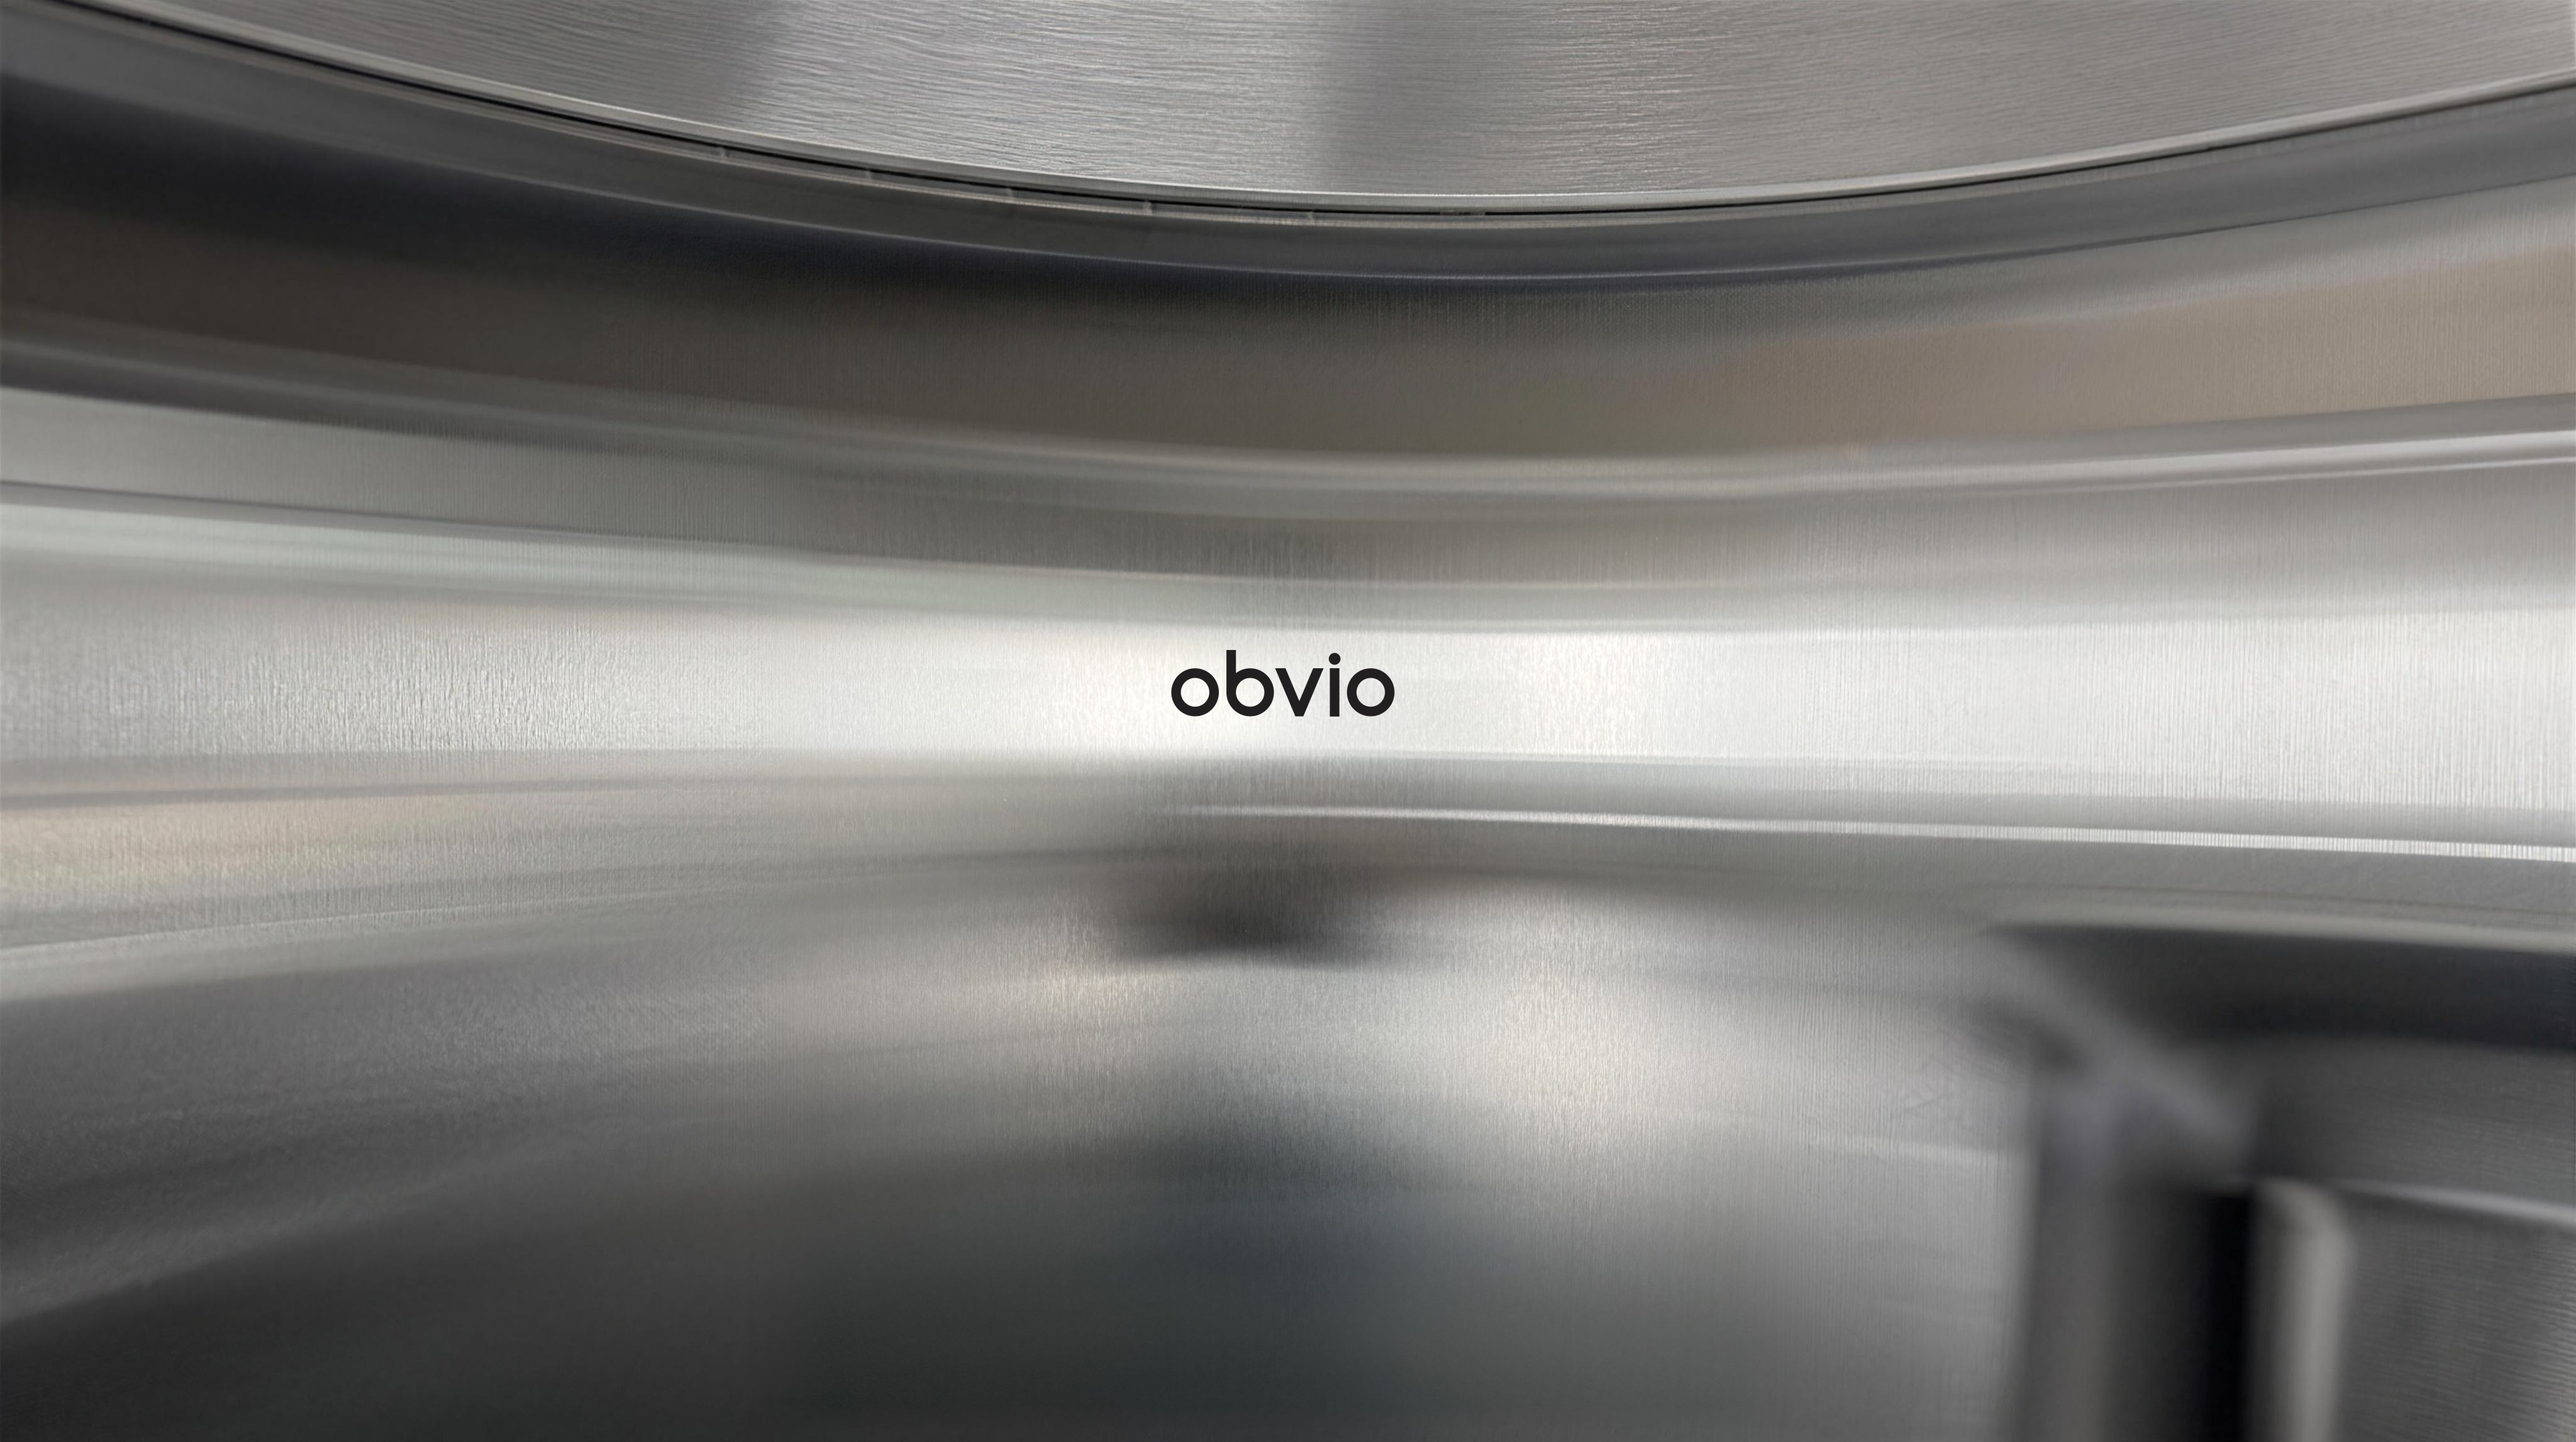
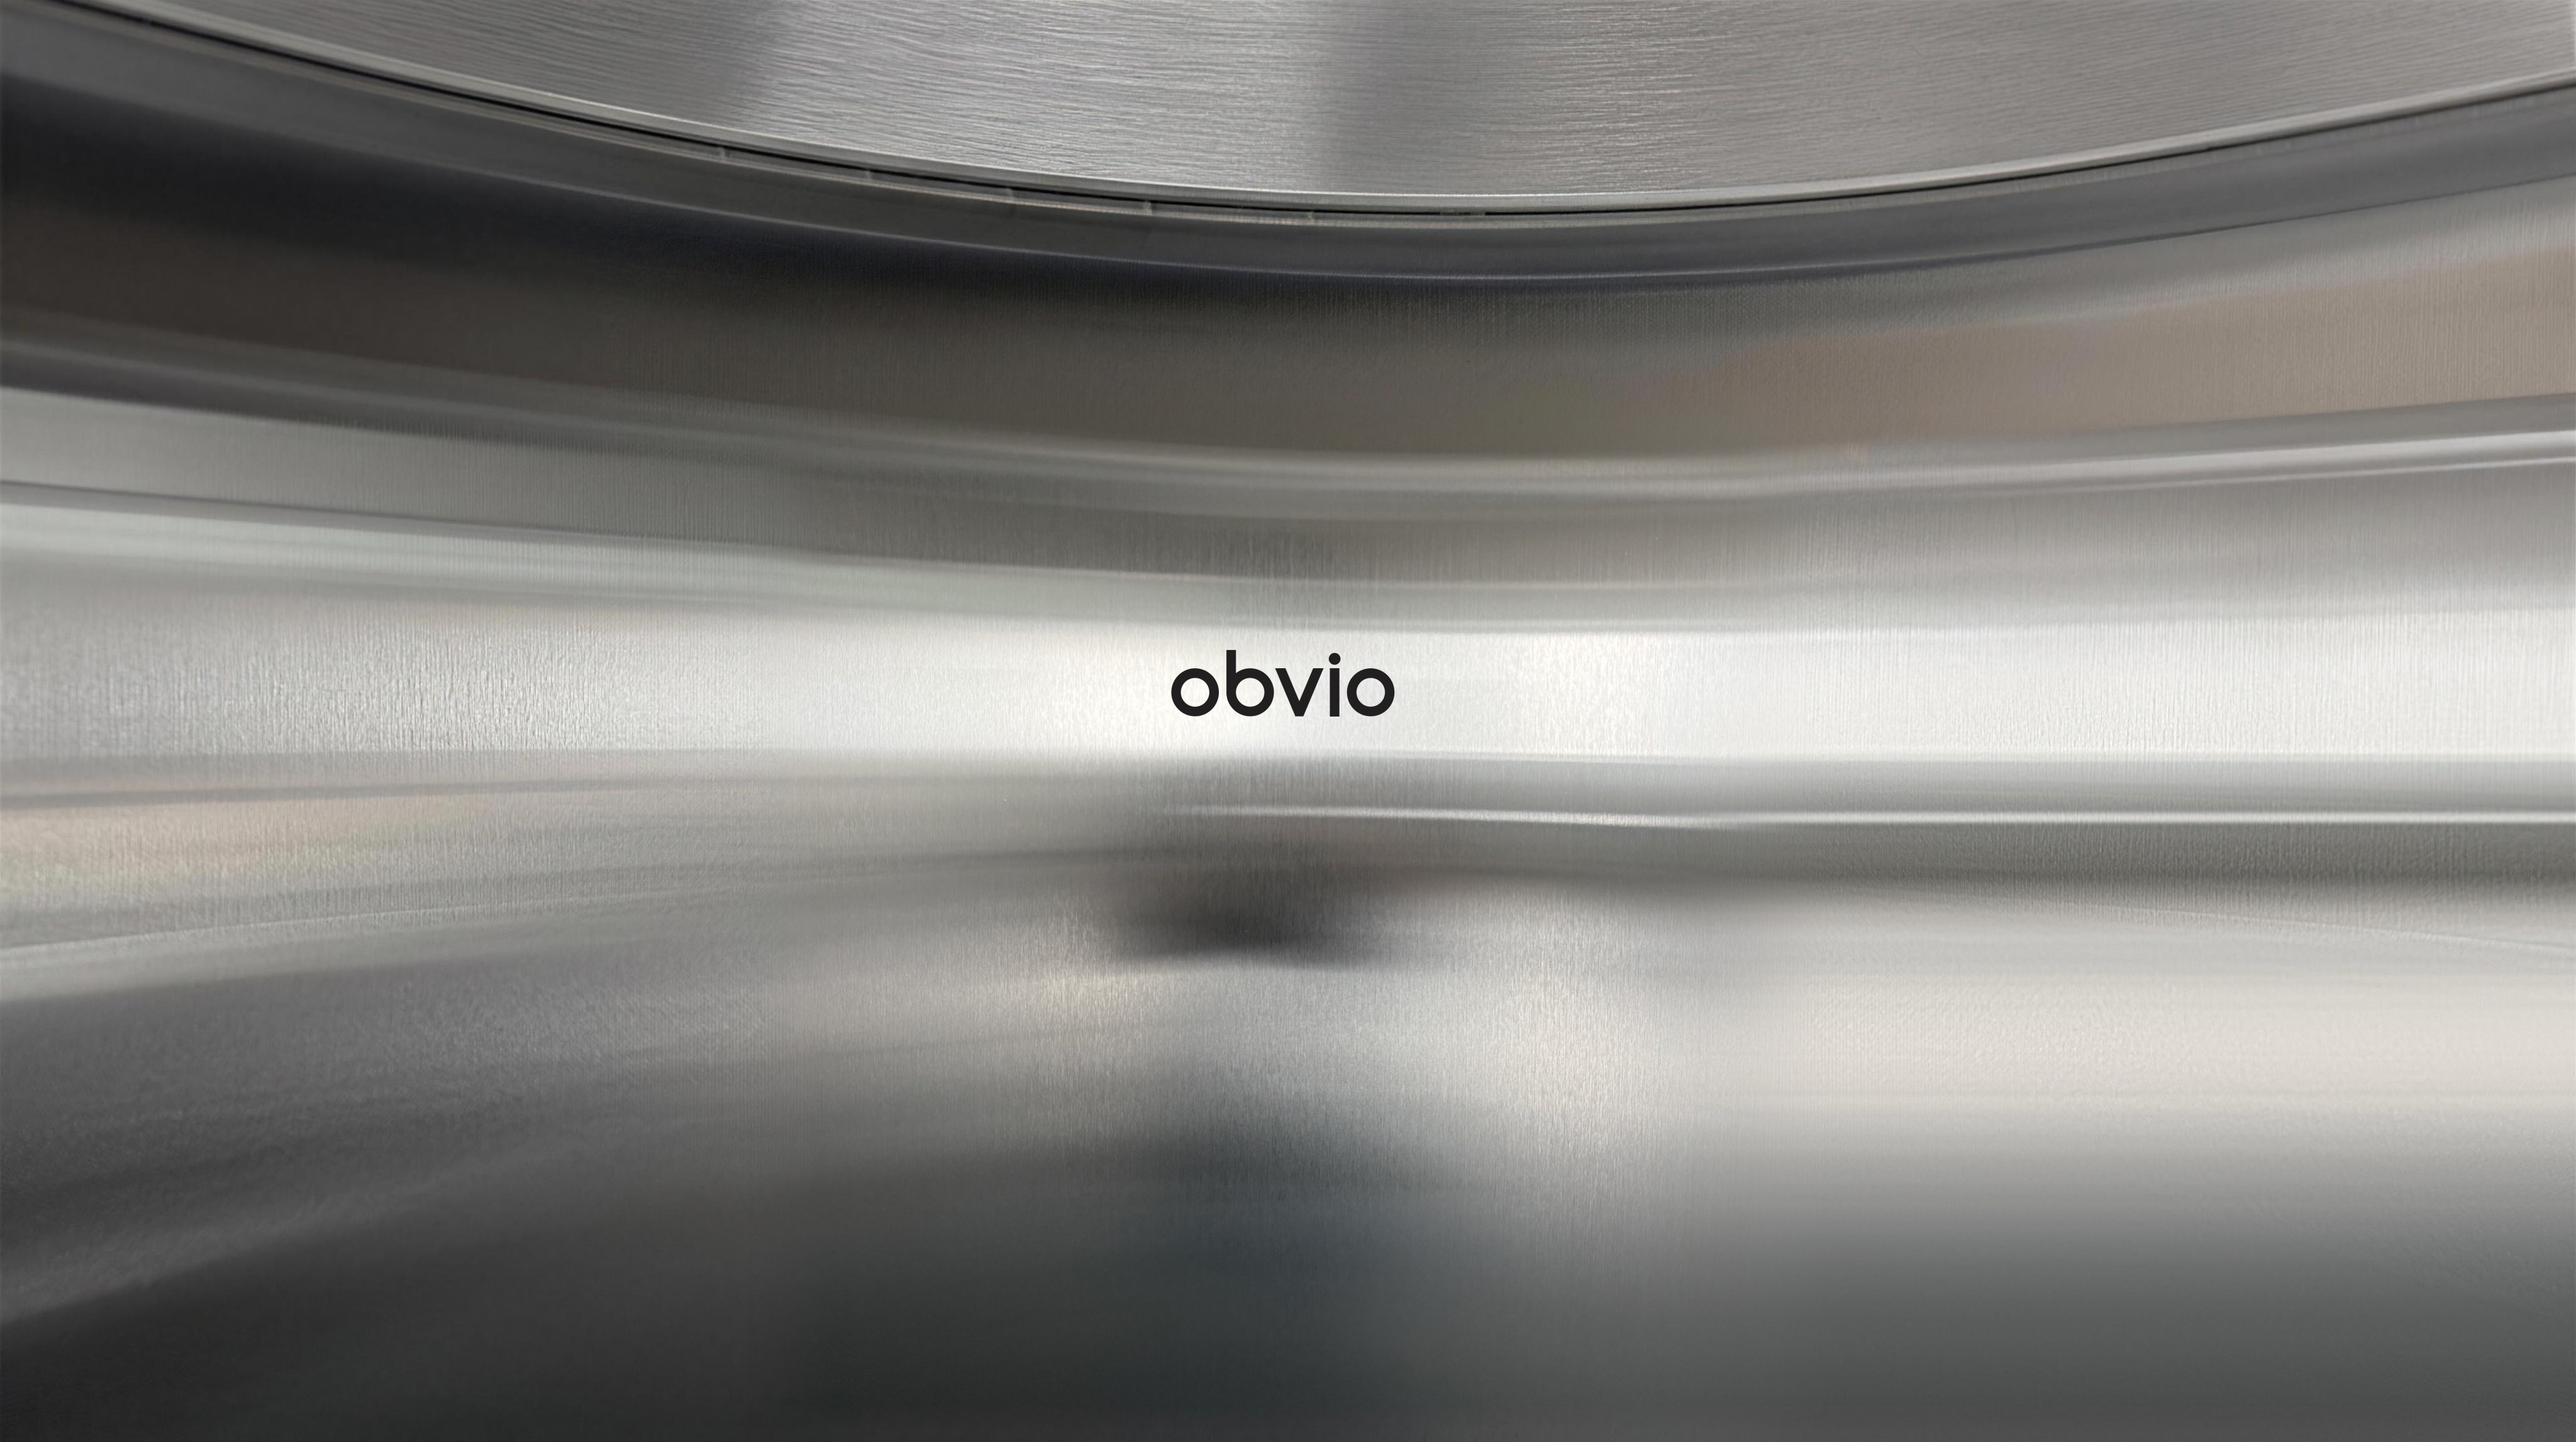
홈 메인 메탈 사진: 오른쪽 아래 어색한 구조물 제거
Claude-Session: https://claude.ai/code/session_01NyY5W1hrS4mP8mai5uscHH

Changed region(s): [[0.6562, 0.5262, 1.0, 1.0], [0.9688, 0.9285, 1.0, 1.0]]

diff --git a/index.html b/index.html
@@ -310,7 +310,7 @@ textarea.auth-input{resize:vertical;min-height:72px;line-height:1.7;}
 <!-- HOME -->
 <div id="page-home" class="page">
   <section class="hero">
-    <div class="hero-slide active"><picture><source media="(min-aspect-ratio: 1/1)" srcset="hero1-wide.jpg"><img class="hero-img" src="hero1.jpg" alt="obvio studio"></picture></div><div class="hero-slide"><picture><source media="(min-aspect-ratio: 1/1)" srcset="hero2-wide.jpg"><img class="hero-img" src="hero2.jpg" alt="obvio studio"></picture></div>
+    <div class="hero-slide active"><picture><source media="(min-aspect-ratio: 1/1)" srcset="hero1-wide.jpg?v=2"><img class="hero-img" src="hero1.jpg" alt="obvio studio"></picture></div><div class="hero-slide"><picture><source media="(min-aspect-ratio: 1/1)" srcset="hero2-wide.jpg"><img class="hero-img" src="hero2.jpg" alt="obvio studio"></picture></div>
   </section>
   <section class="home-strip rv">
     <h2 class="home-strip-h">About Space</h2>
